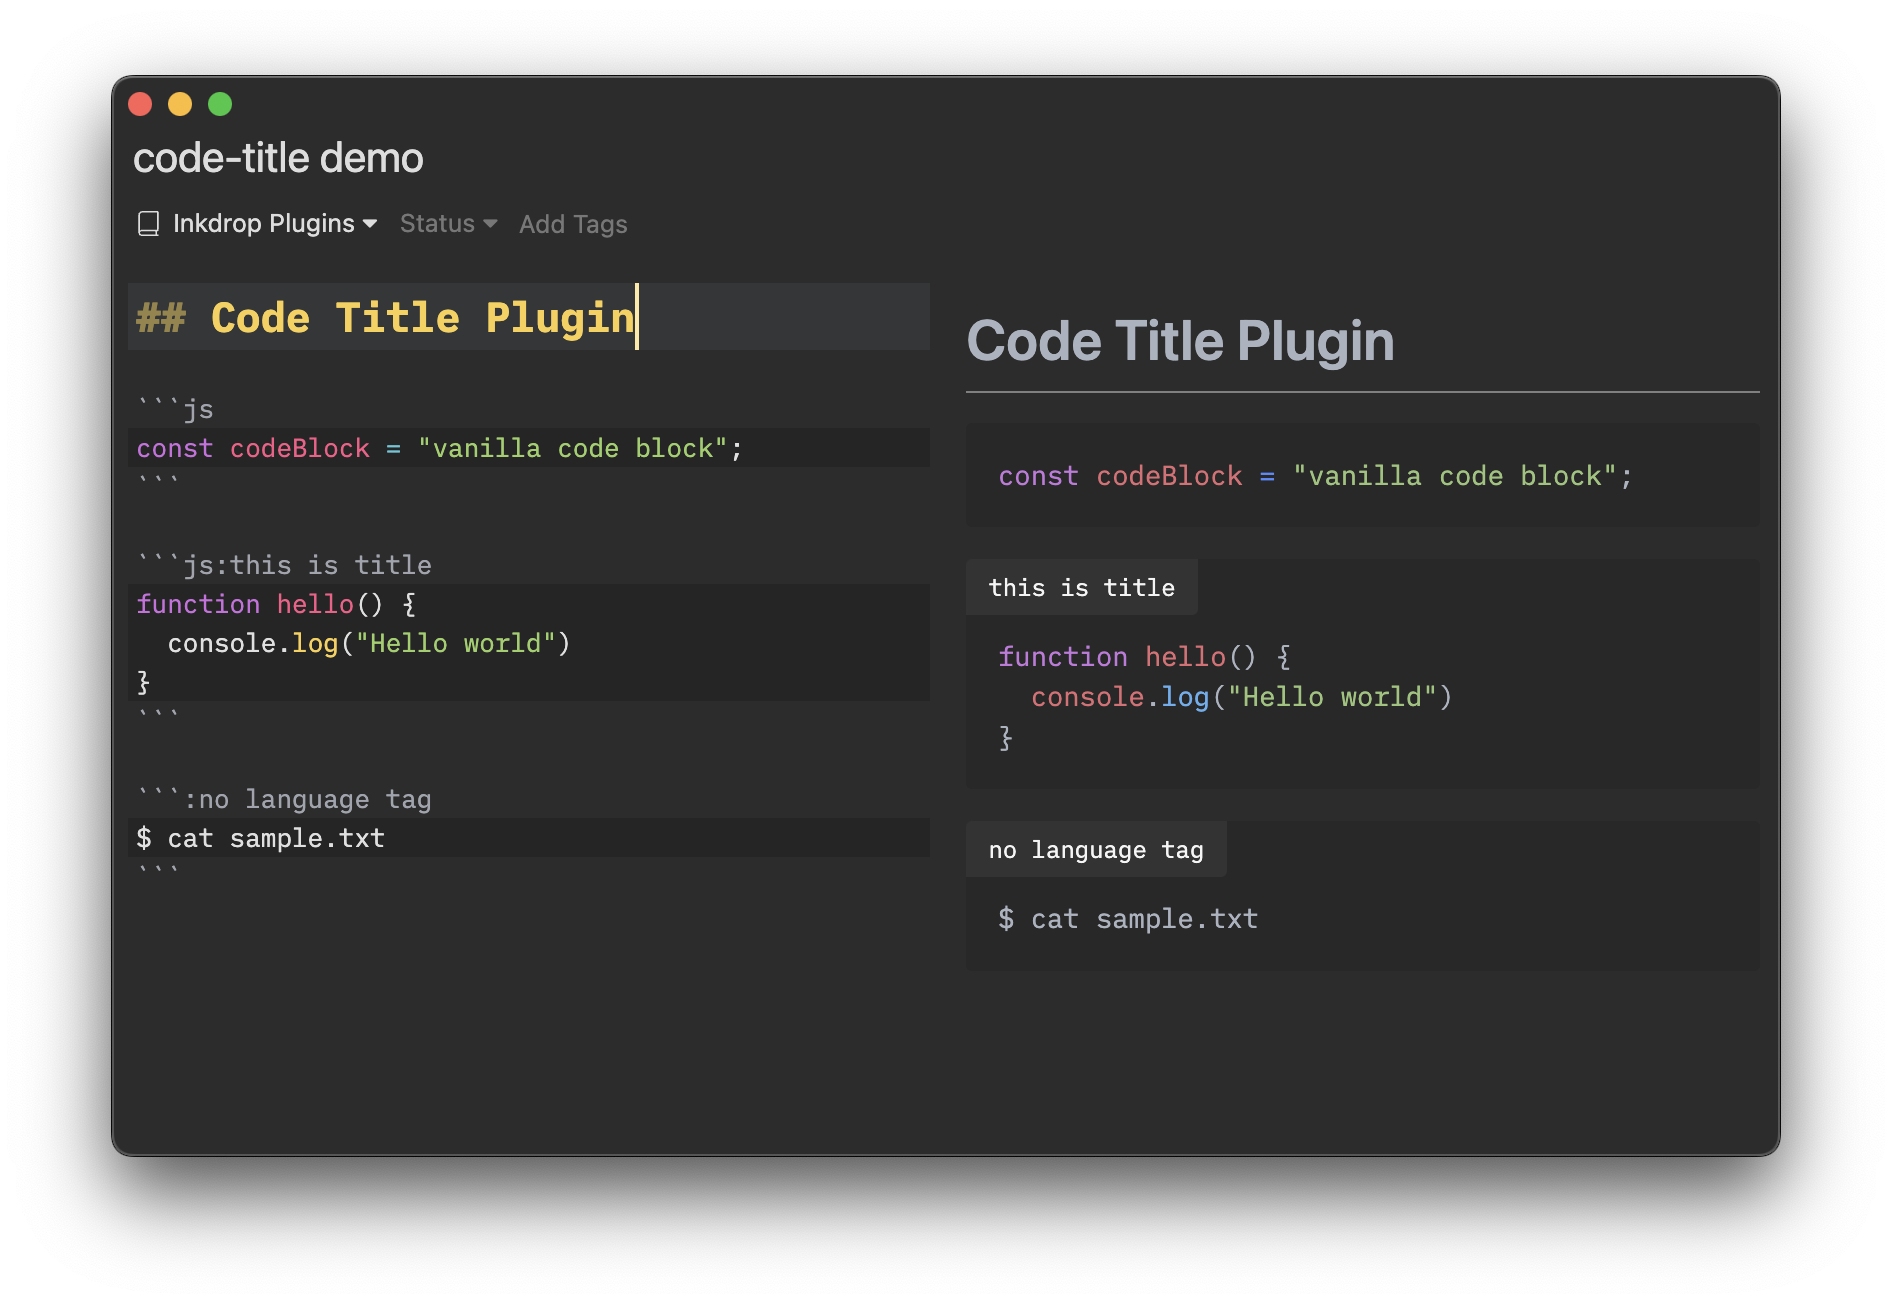
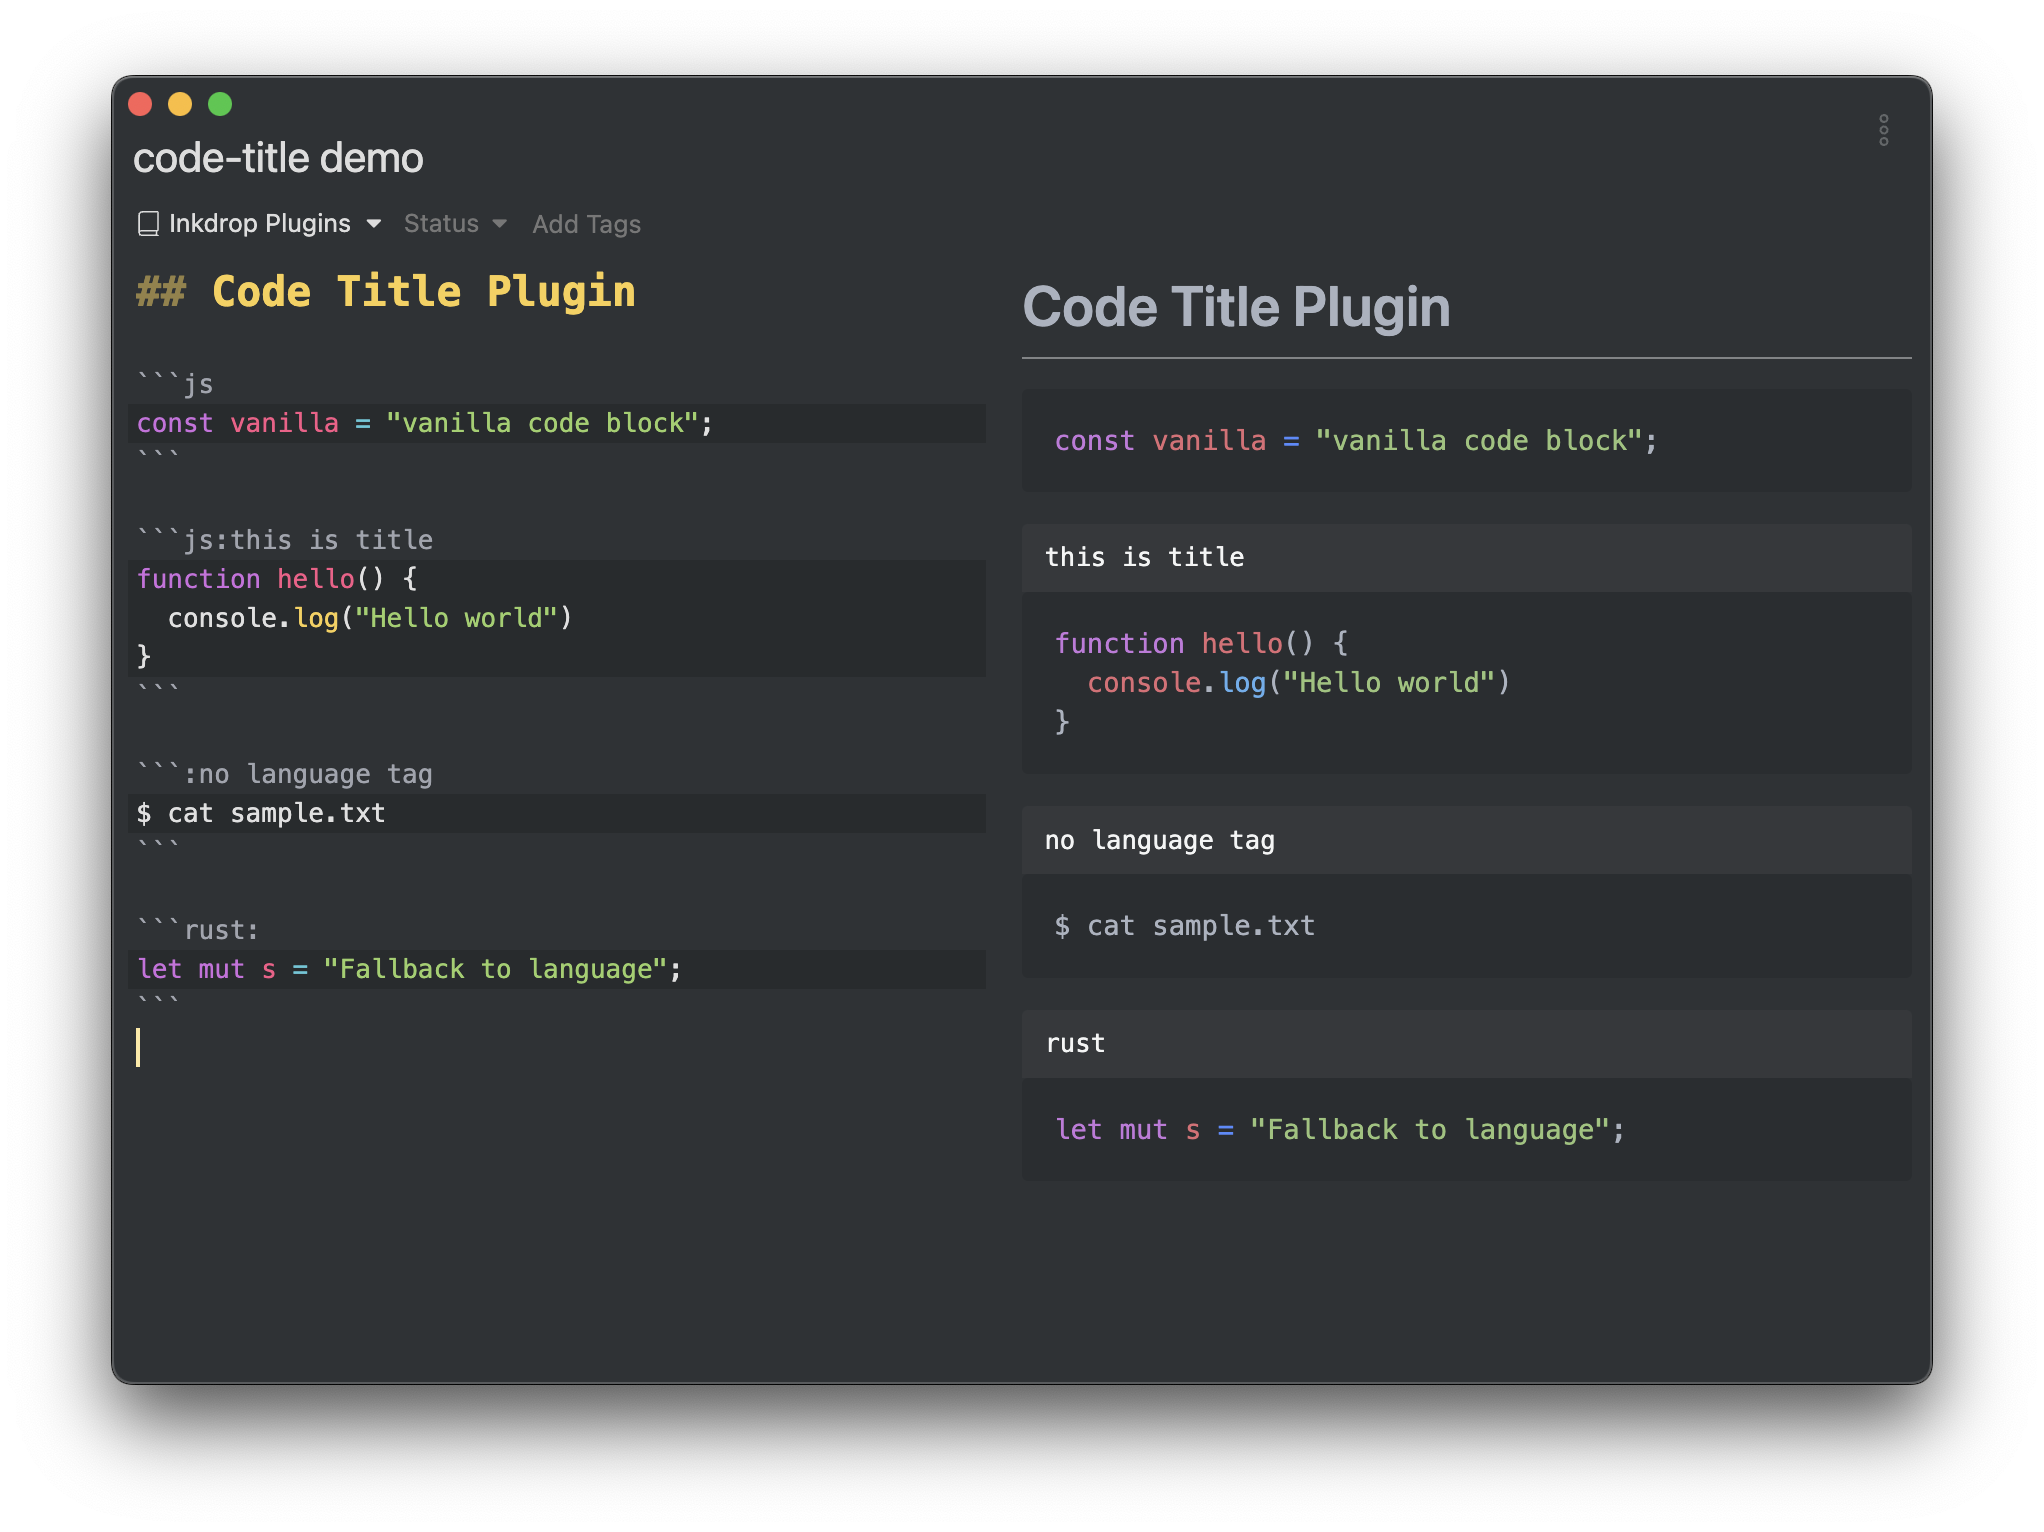
support for Inkdrop v5.8

diff --git a/lib/title-parser.js b/lib/title-parser.js
@@ -1,1 +1,1 @@
-"use strict";Object.defineProperty(exports,"__esModule",{value:true});Object.defineProperty(exports,"default",{enumerable:true,get:function(){return _default}});var _unistutilvisit=_interop_require_default(require("unist-util-visit"));var _splitonfirst=_interop_require_default(require("split-on-first"));var _htmlentities=require("html-entities");function _array_like_to_array(arr,len){if(len==null||len>arr.length)len=arr.length;for(var i=0,arr2=new Array(len);i<len;i++)arr2[i]=arr[i];return arr2}function _array_with_holes(arr){if(Array.isArray(arr))return arr}function _interop_require_default(obj){return obj&&obj.__esModule?obj:{default:obj}}function _iterable_to_array_limit(arr,i){var _i=arr==null?null:typeof Symbol!=="undefined"&&arr[Symbol.iterator]||arr["@@iterator"];if(_i==null)return;var _arr=[];var _n=true;var _d=false;var _s,_e;try{for(_i=_i.call(arr);!(_n=(_s=_i.next()).done);_n=true){_arr.push(_s.value);if(i&&_arr.length===i)break}}catch(err){_d=true;_e=err}finally{try{if(!_n&&_i["return"]!=null)_i["return"]()}finally{if(_d)throw _e}}return _arr}function _non_iterable_rest(){throw new TypeError("Invalid attempt to destructure non-iterable instance.\\nIn order to be iterable, non-array objects must have a [Symbol.iterator]() method.")}function _sliced_to_array(arr,i){return _array_with_holes(arr)||_iterable_to_array_limit(arr,i)||_unsupported_iterable_to_array(arr,i)||_non_iterable_rest()}function _unsupported_iterable_to_array(o,minLen){if(!o)return;if(typeof o==="string")return _array_like_to_array(o,minLen);var n=Object.prototype.toString.call(o).slice(8,-1);if(n==="Object"&&o.constructor)n=o.constructor.name;if(n==="Map"||n==="Set")return Array.from(n);if(n==="Arguments"||/^(?:Ui|I)nt(?:8|16|32)(?:Clamped)?Array$/.test(n))return _array_like_to_array(o,minLen)}var entities=new _htmlentities.AllHtmlEntities;var _inkdrop_config_defaultSettings_editor=inkdrop.config.defaultSettings.editor,defaultFontFamily=_inkdrop_config_defaultSettings_editor.fontFamily;var _inkdrop_config_settings_editor=inkdrop.config.settings.editor,customFontFamily=_inkdrop_config_settings_editor.fontFamily;var fontFamily=customFontFamily||defaultFontFamily;var parseTitle=function(){return function(tree){(0,_unistutilvisit.default)(tree,function(node){return node.type==="code"},function(node,index,parent){var _split=_sliced_to_array((0,_splitonfirst.default)(node.lang||"",":"),2),lang=_split[0],title=_split[1];var meta=node.meta||"";node.data=node.data||{};node.data.hProperties=node.data.hProperties||{};if(title||title===""){node.lang=lang;if(meta)title+=" "+meta;if(title==="")return;title=entities.encode(title);var titleNode={type:"html",value:fontFamily?'<span class="code-title" style="font-family: '.concat(fontFamily,';">').concat(title,"</span>"):'<span class="code-title">'.concat(title,"</span>")};parent.children.splice(index,0,titleNode);var langClass="";if(lang)langClass="language-"+lang;node.data.hProperties.className=node.data.hProperties.className||[];node.data.hProperties.className.push(langClass);node.data.hProperties.className.unshift("with-title")}})}};var _default=parseTitle;
+"use strict";Object.defineProperty(exports,"__esModule",{value:true});Object.defineProperty(exports,"default",{enumerable:true,get:function(){return parseTitle}});var _unistutilvisit=_interop_require_default(require("unist-util-visit"));var _splitonfirst=_interop_require_default(require("split-on-first"));function _array_like_to_array(arr,len){if(len==null||len>arr.length)len=arr.length;for(var i=0,arr2=new Array(len);i<len;i++)arr2[i]=arr[i];return arr2}function _array_with_holes(arr){if(Array.isArray(arr))return arr}function _interop_require_default(obj){return obj&&obj.__esModule?obj:{default:obj}}function _iterable_to_array_limit(arr,i){var _i=arr==null?null:typeof Symbol!=="undefined"&&arr[Symbol.iterator]||arr["@@iterator"];if(_i==null)return;var _arr=[];var _n=true;var _d=false;var _s,_e;try{for(_i=_i.call(arr);!(_n=(_s=_i.next()).done);_n=true){_arr.push(_s.value);if(i&&_arr.length===i)break}}catch(err){_d=true;_e=err}finally{try{if(!_n&&_i["return"]!=null)_i["return"]()}finally{if(_d)throw _e}}return _arr}function _non_iterable_rest(){throw new TypeError("Invalid attempt to destructure non-iterable instance.\\nIn order to be iterable, non-array objects must have a [Symbol.iterator]() method.")}function _sliced_to_array(arr,i){return _array_with_holes(arr)||_iterable_to_array_limit(arr,i)||_unsupported_iterable_to_array(arr,i)||_non_iterable_rest()}function _unsupported_iterable_to_array(o,minLen){if(!o)return;if(typeof o==="string")return _array_like_to_array(o,minLen);var n=Object.prototype.toString.call(o).slice(8,-1);if(n==="Object"&&o.constructor)n=o.constructor.name;if(n==="Map"||n==="Set")return Array.from(n);if(n==="Arguments"||/^(?:Ui|I)nt(?:8|16|32)(?:Clamped)?Array$/.test(n))return _array_like_to_array(o,minLen)}var _inkdrop_config_defaultSettings_editor=inkdrop.config.defaultSettings.editor,defaultFontFamily=_inkdrop_config_defaultSettings_editor.fontFamily;var _inkdrop_config_settings_editor=inkdrop.config.settings.editor,customFontFamily=_inkdrop_config_settings_editor.fontFamily;var fontFamily=customFontFamily||defaultFontFamily;function escapeHtml(str){return str.replace(/&/g,"&amp;").replace(/</g,"&lt;").replace(/>/g,"&gt;").replace(/"/g,"&quot;").replace(/'/g,"&#039;")}function parseTitle(){return function(tree){(0,_unistutilvisit.default)(tree,function(node){return node.type==="code"},function(node,index,parent){var _split=_sliced_to_array((0,_splitonfirst.default)(node.lang||"",":"),2),lang=_split[0],title=_split[1];var meta=node.meta||"";node.data=node.data||{};node.data.hProperties=node.data.hProperties||{};if(title||title===""){node.lang=lang;if(meta)title+=" "+meta;title=escapeHtml(title);if(title==="")title=lang;var titleNode={type:"html",value:fontFamily?'<div class="code-title" style="font-family: '.concat(fontFamily,';">').concat(title,"</div>"):'<div class="code-title">'.concat(title,"</div>")};parent.children.splice(index,0,titleNode);var langClass="";if(lang)langClass="language-"+lang;node.data.hProperties.className=node.data.hProperties.className||[];node.data.hProperties.className.push(langClass);node.data.hProperties.className.unshift("with-title")}})}}

diff --git a/src/title-parser.js b/src/title-parser.js
@@ -2,15 +2,20 @@
 
 import visit from "unist-util-visit";
 import split from "split-on-first";
-import { AllHtmlEntities as Entities } from "html-entities";
-
-const entities = new Entities();
 
 const { fontFamily: defaultFontFamily } = inkdrop.config.defaultSettings.editor;
 const { fontFamily: customFontFamily } = inkdrop.config.settings.editor;
 const fontFamily = customFontFamily || defaultFontFamily;
 
-//
+function escapeHtml(str) {
+  return str
+    .replace(/&/g, "&amp;")
+    .replace(/</g, "&lt;")
+    .replace(/>/g, "&gt;")
+    .replace(/"/g, "&quot;")
+    .replace(/'/g, "&#039;");
+}
+
 // unist-util-visit fucntion parses the below code
 //
 //   ```js:This is a hello function
@@ -19,7 +24,8 @@ const fontFamily = customFontFamily || defaultFontFamily;
 //   }
 //   ```
 //
-// then yields a Node object
+// then yields a Node object like below
+//
 //   {
 //     lang: "js:This",
 //     meta: "is a hello function",
@@ -27,42 +33,42 @@ const fontFamily = customFontFamily || defaultFontFamily;
 //     type: "code",
 //     position: ...
 //   }
-//
 
-const parseTitle = () => (tree) => {
-  visit(
-    tree,
-    (node) => node.type === "code",
-    (node, index, parent) => {
-      let [lang, title] = split(node.lang || "", ":");
-      const meta = node.meta || "";
+export default function parseTitle() {
+  return (tree) => {
+    visit(
+      tree,
+      (node) => node.type === "code",
+      (node, index, parent) => {
+        let [lang, title] = split(node.lang || "", ":");
+        const meta = node.meta || "";
 
-      // preserve mdast-node info in data field
-      node.data = node.data || {};
-      node.data.hProperties = node.data.hProperties || {};
+        // preserve mdast-node info in data field
+        node.data = node.data || {};
+        node.data.hProperties = node.data.hProperties || {};
 
-      if (title || title === "") {
-        node.lang = lang;
-        if (meta) title += " " + meta;
-        if (title === "") return; // if no title, don't render title block
+        if (title || title === "") {
+          node.lang = lang;
+          if (meta) title += " " + meta; // Allow for a space in the title
+          title = escapeHtml(title);
+          if (title === "") title = lang; // If title is empty, fallbak to lang
 
-        title = entities.encode(title);
-        const titleNode = {
-          type: "html",
-          value: fontFamily
-            ? `<span class="code-title" style="font-family: ${fontFamily};">${title}</span>`
-            : `<span class="code-title">${title}</span>`,
-        };
-        parent.children.splice(index, 0, titleNode);
+          const titleNode = {
+            type: "html",
+            value: fontFamily
+              ? `<div class="code-title" style="font-family: ${fontFamily};">${title}</div>`
+              : `<div class="code-title">${title}</div>`,
+          };
+          parent.children.splice(index, 0, titleNode);
 
-        let langClass = "";
-        if (lang) langClass = "language-" + lang;
-        node.data.hProperties.className = node.data.hProperties.className || [];
-        node.data.hProperties.className.push(langClass);
-        node.data.hProperties.className.unshift("with-title");
+          let langClass = "";
+          if (lang) langClass = "language-" + lang;
+          node.data.hProperties.className =
+            node.data.hProperties.className || [];
+          node.data.hProperties.className.push(langClass);
+          node.data.hProperties.className.unshift("with-title");
+        }
       }
-    }
-  );
-};
-
-export default parseTitle;
+    );
+  };
+}

diff --git a/lib/index.js b/lib/index.js
@@ -1,1 +1,1 @@
-"use strict";Object.defineProperty(exports,"__esModule",{value:true});var _inkdrop=require("inkdrop");var _titleparser=_interop_require_default(require("./title-parser"));var _codeblock=_interop_require_default(require("./codeblock"));function _interop_require_default(obj){return obj&&obj.__esModule?obj:{default:obj}}module.exports={activate:function activate(){_inkdrop.markdownRenderer.remarkPlugins.push(_titleparser.default);var OrigCode=_inkdrop.markdownRenderer.remarkReactComponents.code;var TitledCode=(0,_codeblock.default)(OrigCode);_inkdrop.markdownRenderer.remarkReactComponents.code=TitledCode}};
+"use strict";Object.defineProperty(exports,"__esModule",{value:true});var _inkdrop=require("inkdrop");var _titleparser=_interop_require_default(require("./title-parser"));function _interop_require_default(obj){return obj&&obj.__esModule?obj:{default:obj}}module.exports={activate:function activate(){_inkdrop.markdownRenderer.remarkPlugins.push(_titleparser.default);_inkdrop.markdownRenderer.remarkReactComponents.pre=function(props){var codeClassName=props.className;var hasTitle=codeClassName&&codeClassName.split(" ")[0]==="with-title";return hasTitle?React.createElement("div",{className:"with-title-block"},React.createElement("pre",props)):React.createElement("pre",props)}},deactivate:function deactivate(){_inkdrop.markdownRenderer.remarkPlugins=_inkdrop.markdownRenderer.remarkPlugins.filter(function(plugin){return plugin!==_titleparser.default})}};

diff --git a/src/index.js b/src/index.js
@@ -1,15 +1,27 @@
-"use strict";
-
 import { markdownRenderer } from "inkdrop";
+
 import parseTitle from "./title-parser";
-import createTitledCodeBlock from "./codeblock";
 
 module.exports = {
   activate() {
     markdownRenderer.remarkPlugins.push(parseTitle);
 
-    const OrigCode = markdownRenderer.remarkReactComponents.code;
-    const TitledCode = createTitledCodeBlock(OrigCode);
-    markdownRenderer.remarkReactComponents.code = TitledCode;
+    markdownRenderer.remarkReactComponents.pre = (props) => {
+      const codeClassName = props.className;
+      const hasTitle =
+        codeClassName && codeClassName.split(" ")[0] === "with-title";
+      return hasTitle ? (
+        <div className="with-title-block">
+          <pre {...props} />
+        </div>
+      ) : (
+        <pre {...props} />
+      );
+    };
+  },
+  deactivate() {
+    markdownRenderer.remarkPlugins = markdownRenderer.remarkPlugins.filter(
+      (plugin) => plugin !== parseTitle
+    );
   },
 };

diff --git a/styles/code-title.css b/styles/code-title.css
@@ -1,20 +1,17 @@
-span.code-title {
+.code-title {
   color: var(--dark-text-color);
-  background-color: rgba(100, 100, 100, 0.175);
-  font-size: 75%;
-  border-radius: 3px 0 3px 0; /* 3px is `pre` border radius */
-  padding: 0.2rem 0.8rem;
-  line-height: 1.6rem;
-  margin-bottom: -2.2rem;
-  display: block;
-  width: fit-content;
+  background-color: var(--strong-transparent-black);
+  border-radius: 3px 3px 0 0; /* 3px is `pre` border radius */
+  font-size: 80%;
+  line-height: 2em;
+  display: grid;
+  align-items: center;
 }
 
-div.with-title-block {
-  position: relative;
-  padding-top: 1.6rem;
+body[class*="dark-ui"] .code-title {
+  background-color: var(--subtle-transparent-black);
 }
 
-pre > div > code {
-  font-size: 100% !important;
+.with-title-block > pre {
+  border-radius: 0 0 3px 3px !important;
 }

diff --git a/README.md b/README.md
@@ -7,15 +7,10 @@ Add a title to a fenced code block
 
 ![code-title sample](./img/sample.png)
 
-## Install from command line
-
-```
-ipm install code-title
-```
-
 ## Usage & Example
 
-Enter a colon(`:`) and title following the language tag of the fenced code block, as follows
+Enter the language tag of the Fenced code block followed by a colon ("`:`") and the title.
+If only a colon is entered and no title is specified, the language will be displayed as the title.
 
 ````
 ```js:this is title
